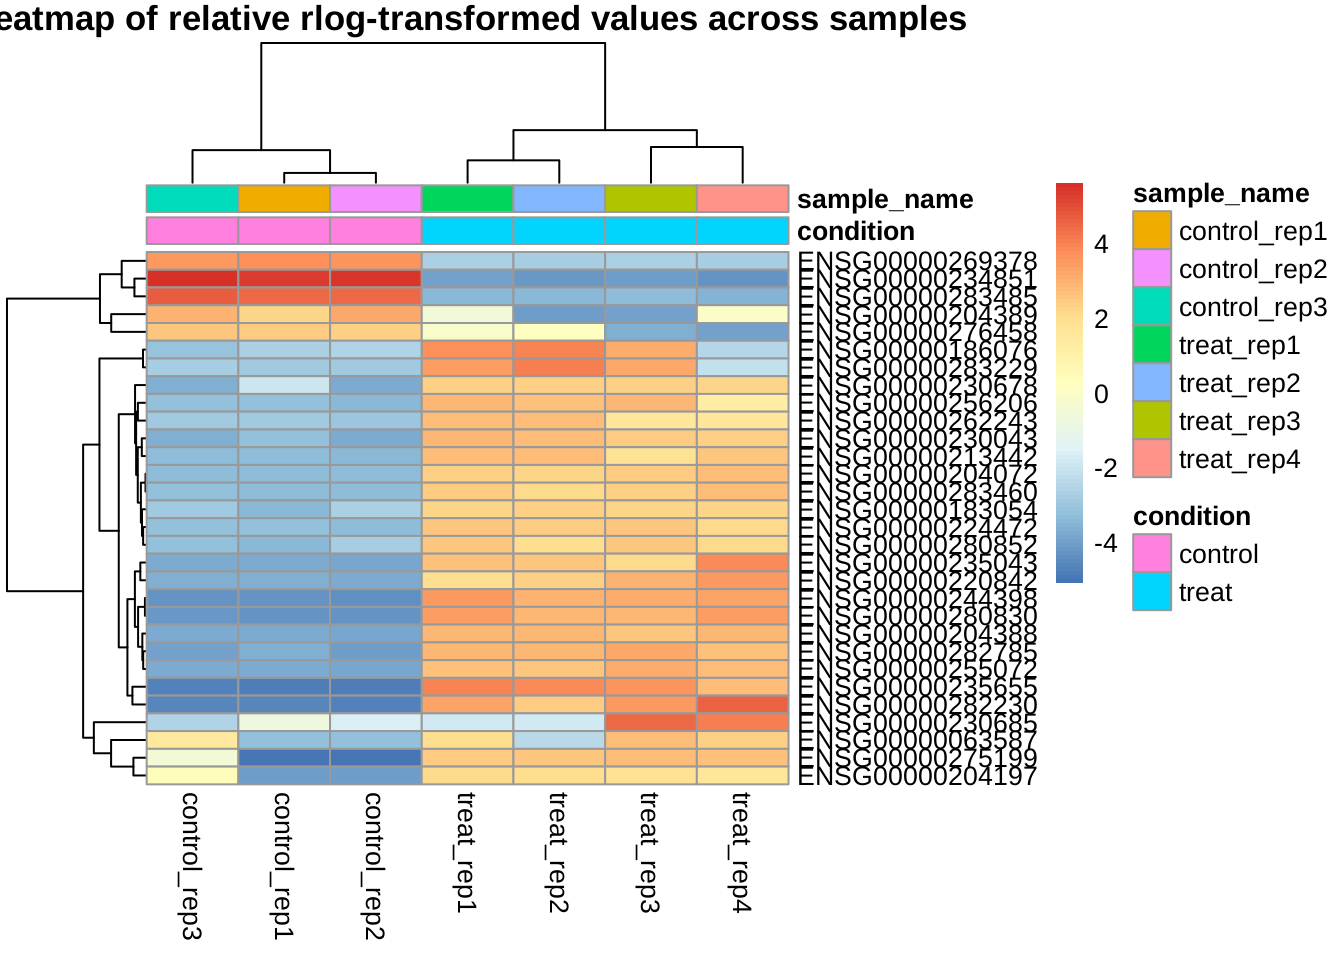
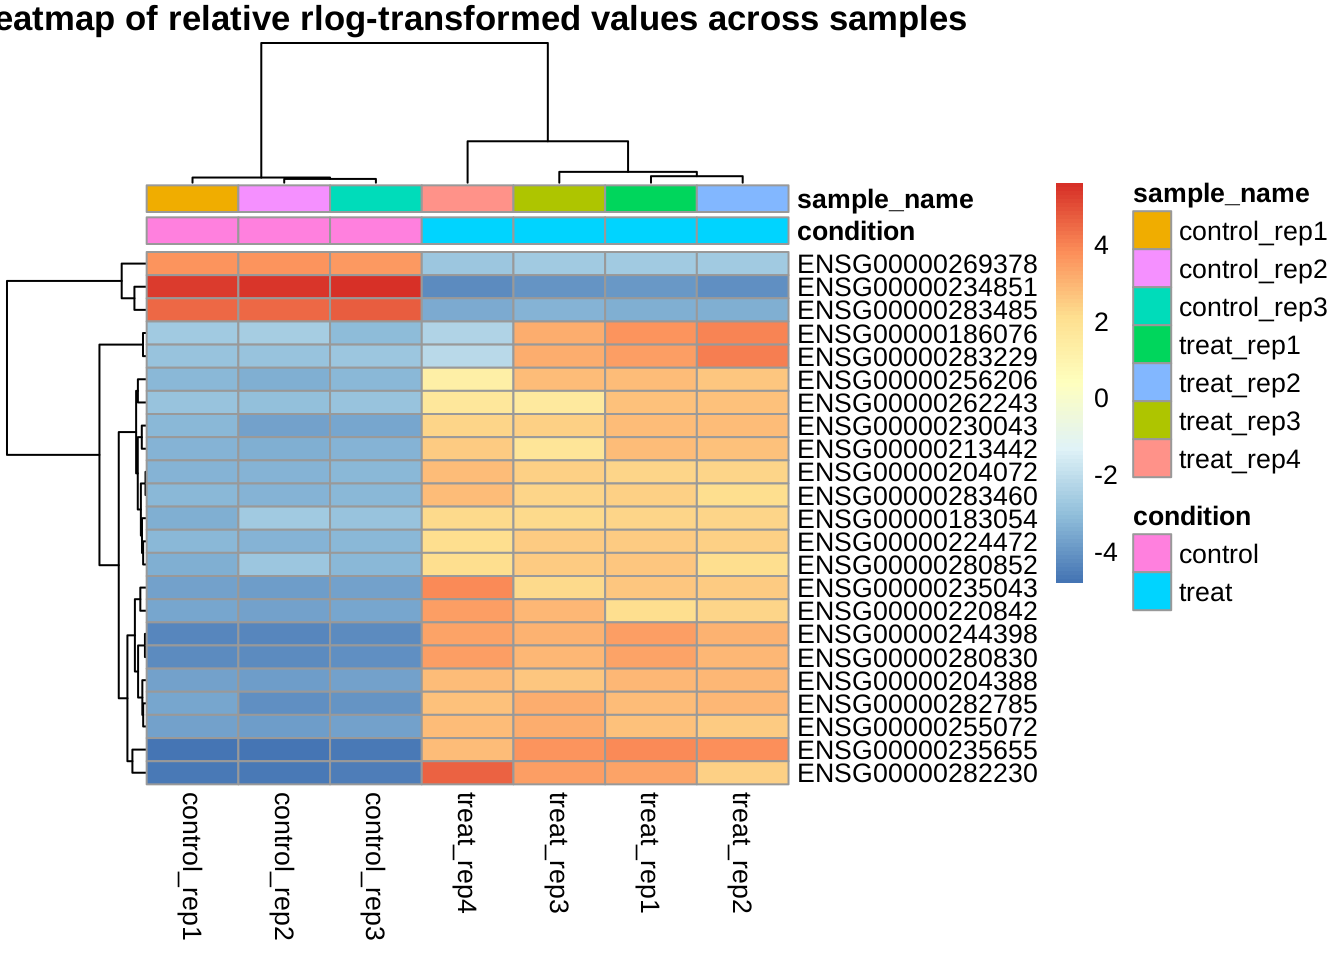
Rerun report

diff --git a/docs/microarray_explore.html b/docs/microarray_explore.html
@@ -128,6 +128,29 @@ $(document).ready(function () {
 
 </div>
 
+<div id="TOC">
+<ul>
+<li><a href="#load-packages">Load Packages</a></li>
+<li><a href="#load-the-dataset">Load the dataset</a></li>
+<li><a href="#quality-control">Quality control</a><ul>
+<li><a href="#boxplot">Boxplot</a></li>
+<li><a href="#ma-plot">MA plot</a></li>
+<li><a href="#quality-report-of-the-raw-data">Quality report of the raw data</a></li>
+</ul></li>
+<li><a href="#rma">RMA</a></li>
+<li><a href="#access-the-quality-after-normalization">Access the quality after normalization</a><ul>
+<li><a href="#pca-plot-before-and-after-normalization">PCA plot before and after normalization</a></li>
+<li><a href="#boxplot-before-and-after-normalization">Boxplot before and after normalization</a></li>
+<li><a href="#ma-plot-after-normalization">MA plot after normalization</a></li>
+<li><a href="#heatmap-with-sample-to-sample-distance-after-normalization">Heatmap with sample-to-sample distance after normalization</a></li>
+</ul></li>
+<li><a href="#filter-based-on-intensity">Filter based on intensity</a></li>
+<li><a href="#identification-of-differentially-expressed-genes">Identification of differentially expressed genes</a></li>
+<li><a href="#annotating-genes">Annotating genes</a></li>
+<li><a href="#generate-a-table-of-differentially-expressed-genes">Generate a table of differentially expressed genes</a></li>
+<li><a href="#gene-clustering">Gene clustering</a></li>
+</ul>
+</div>
 
 <div id="load-packages" class="section level2">
 <h2>Load Packages</h2>
@@ -139,6 +162,9 @@ $(document).ready(function () {
 <div id="load-the-dataset" class="section level2">
 <h2>Load the dataset</h2>
 <pre class="r"><code>dataset &lt;- read.celfiles(list.files(here(&quot;data/microarray&quot;), full.names = TRUE))</code></pre>
+<pre><code>## Loading required package: pd.hg.u95av2</code></pre>
+<pre><code>## Loading required package: RSQLite</code></pre>
+<pre><code>## Loading required package: DBI</code></pre>
 <pre><code>## Platform design info loaded.</code></pre>
 <pre><code>## Reading in : /home/jialin/Courses/code6150/data/microarray/GSM651310.CEL.gz
 ## Reading in : /home/jialin/Courses/code6150/data/microarray/GSM651315.CEL.gz
@@ -213,8 +239,13 @@ arrayQualityMetrics(expressionset = dataset,
 <div id="pca-plot-before-and-after-normalization" class="section level3">
 <h3>PCA plot before and after normalization</h3>
 <pre class="r"><code>library(ggplot2)
-library(cowplot)
-plot_grid(
+library(cowplot)</code></pre>
+<pre><code>## 
+## Attaching package: &#39;cowplot&#39;</code></pre>
+<pre><code>## The following object is masked from &#39;package:ggplot2&#39;:
+## 
+##     ggsave</code></pre>
+<pre class="r"><code>plot_grid(
     local({
         PCA_raw &lt;- prcomp(t(log2(exprs(dataset))), scale = FALSE)
     
@@ -260,6 +291,7 @@ diag(dists) &lt;- NA
 hmcol &lt;- colorRampPalette(rev(brewer.pal(9, &quot;PuOr&quot;)))(255)
 pheatmap(dists, col = rev(hmcol), clustering_distance_rows = &quot;manhattan&quot;,
                     clustering_distance_cols = &quot;manhattan&quot;)</code></pre>
+<p><img src="microarray_explore_files/figure-html/unnamed-chunk-9-1.png" width="672" /></p>
 </div>
 </div>
 <div id="filter-based-on-intensity" class="section level2">
@@ -290,8 +322,16 @@ table(idx_thresh_median)</code></pre>
 <div id="identification-of-differentially-expressed-genes" class="section level2">
 <h2>Identification of differentially expressed genes</h2>
 <p>Create a simple design matrix.</p>
-<pre class="r"><code>library(limma)
-f &lt;- factor(c(&quot;control&quot;, &quot;control&quot;, &quot;treat&quot;, &quot;treat&quot;))
+<pre class="r"><code>library(limma)</code></pre>
+<pre><code>## 
+## Attaching package: &#39;limma&#39;</code></pre>
+<pre><code>## The following object is masked from &#39;package:oligo&#39;:
+## 
+##     backgroundCorrect</code></pre>
+<pre><code>## The following object is masked from &#39;package:BiocGenerics&#39;:
+## 
+##     plotMA</code></pre>
+<pre class="r"><code>f &lt;- factor(c(&quot;control&quot;, &quot;control&quot;, &quot;treat&quot;, &quot;treat&quot;))
 design &lt;- model.matrix(~ 0 + f)
 colnames(design)</code></pre>
 <pre><code>## [1] &quot;fcontrol&quot; &quot;ftreat&quot;</code></pre>
@@ -591,6 +631,10 @@ knitr::kable(top)</code></pre>
 </tr>
 </tbody>
 </table>
+</div>
+<div id="gene-clustering" class="section level2">
+<h2>Gene clustering</h2>
+<p>Here we cluster genes by</p>
 </div>
 
 

diff --git a/docs/rnaseq_explore.html b/docs/rnaseq_explore.html
@@ -325,9 +325,8 @@ head(res[order(res$pvalue), ], n = 3)</code></pre>
 <div id="annotating-the-gene-names" class="section level2">
 <h2>Annotating the gene names</h2>
 <pre class="r"><code>library(AnnotationDbi)
-library(org.Hs.eg.db)</code></pre>
-<pre><code>## </code></pre>
-<pre class="r"><code>res$symbol &lt;- mapIds(org.Hs.eg.db, keys=row.names(res),
+library(org.Hs.eg.db)
+res$symbol &lt;- mapIds(org.Hs.eg.db, keys=row.names(res),
     column=&quot;SYMBOL&quot;, keytype=&quot;ENSEMBL&quot;, multiVals=&quot;first&quot;)</code></pre>
 <pre><code>## &#39;select()&#39; returned 1:many mapping between keys and columns</code></pre>
 <pre class="r"><code>res &lt;- res[, c(ncol(res), 1:(ncol(res)))]
@@ -1418,56 +1417,8 @@ pheatmap(mat, annotation_col = anno, show_rownames = FALSE,
 <pre class="r"><code>library(genefilter)
 topVarGenes &lt;- head(order(rowVars(assay(rld)), decreasing = TRUE), 30)
 mat &lt;- assay(rld)[topVarGenes, ]
-mat[rownames(mat) %in% rownames(selected), ]</code></pre>
-<pre><code>##                 control_rep1 control_rep2 control_rep3 treat_rep1
-## ENSG00000234851    14.287152    14.394471    14.575809   4.996204
-## ENSG00000235655     3.724976     3.668961     3.774155  12.433176
-## ENSG00000282230     3.676304     3.620618     3.725190  11.636829
-## ENSG00000283485    12.417806    12.474237    12.637669   4.538065
-## ENSG00000244398     3.589806     3.535514     3.637460  11.412563
-## ENSG00000280830     3.560777     3.506919     3.608047  11.155568
-## ENSG00000282785     3.960104     3.470036     3.569170  10.413783
-## ENSG00000235043     3.413983     3.362500     3.459154   9.805487
-## ENSG00000204388     3.439449     3.388162     3.484452  10.116420
-## ENSG00000255072     3.435709     3.384466     3.480673   9.904391
-## ENSG00000220842     3.391858     3.341276     3.436239   9.106863
-## ENSG00000269378    10.653102    10.609421    10.484348   4.231551
-## ENSG00000186076     3.587151     3.732968     3.189412  10.024772
-## ENSG00000283229     3.019004     2.972581     3.059690   9.319061
-## ENSG00000230043     3.906296     3.382907     3.477586   9.980339
-## ENSG00000213442     3.334721     3.286683     3.376871   9.478075
-## ENSG00000256206     5.328694     5.168710     5.385479  11.438963
-## ENSG00000204072     3.336821     3.289136     3.378663   8.976130
-## ENSG00000283460     3.327959     3.280623     3.369495   9.000999
-## ENSG00000224472     3.326870     3.279811     3.368164   9.123461
-## ENSG00000280852     2.581596     3.130088     2.759862   8.566628
-## ENSG00000183054     6.643146     7.342571     7.121433  12.351383
-## ENSG00000262243     3.247628     3.203404     3.286437   8.936587
-##                 treat_rep2 treat_rep3 treat_rep4
-## ENSG00000234851   4.827624   4.906850   4.727588
-## ENSG00000235655  12.316667  12.165076  11.324159
-## ENSG00000282230  10.740319  11.814460  12.966135
-## ENSG00000283485   4.522251   4.597297   4.427342
-## ENSG00000244398  10.925016  10.968560  11.263693
-## ENSG00000280830  10.700926  10.694911  11.221839
-## ENSG00000282785  10.494431  10.733617  10.280575
-## ENSG00000235043   9.694530   9.340460  11.048476
-## ENSG00000204388  10.114730   9.800799  10.050071
-## ENSG00000255072   9.765009  10.325621  10.006213
-## ENSG00000220842   9.377806   9.968825  10.508531
-## ENSG00000269378   4.217100   4.285631   4.130259
-## ENSG00000186076  10.249365   9.422688   3.899653
-## ENSG00000283229   9.923640   9.058405   3.735543
-## ENSG00000230043   9.924928   9.545089   9.466382
-## ENSG00000213442   9.409849   8.493135   9.209408
-## ENSG00000256206  11.238519  11.409654   9.836769
-## ENSG00000204072   8.928135   9.052621   9.443404
-## ENSG00000283460   8.718743   8.959206   9.405479
-## ENSG00000224472   8.969772   9.089686   8.724185
-## ENSG00000280852   8.018797   8.476552   8.059353
-## ENSG00000183054  12.363093  12.253034  12.251812
-## ENSG00000262243   8.920689   7.736816   7.830204</code></pre>
-<pre class="r"><code>mat &lt;- mat - rowMeans(mat)
+mat &lt;- mat[rownames(mat) %in% rownames(selected), ]
+mat &lt;- mat - rowMeans(mat)
 anno &lt;- as.data.frame(colData(rld)[, c(&quot;condition&quot;, &quot;sample_name&quot;)])
 pheatmap(mat, annotation_col = anno,
          main = &quot;Heatmap of relative rlog-transformed values across samples&quot;)</code></pre>
